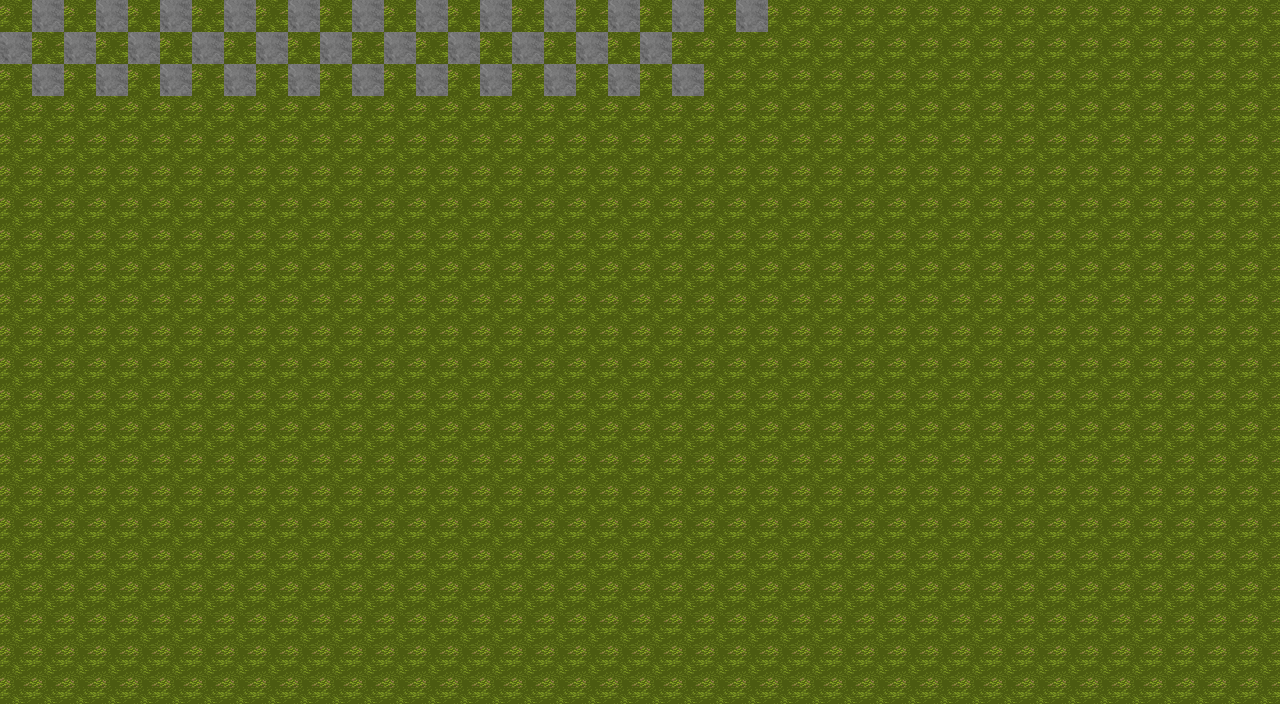
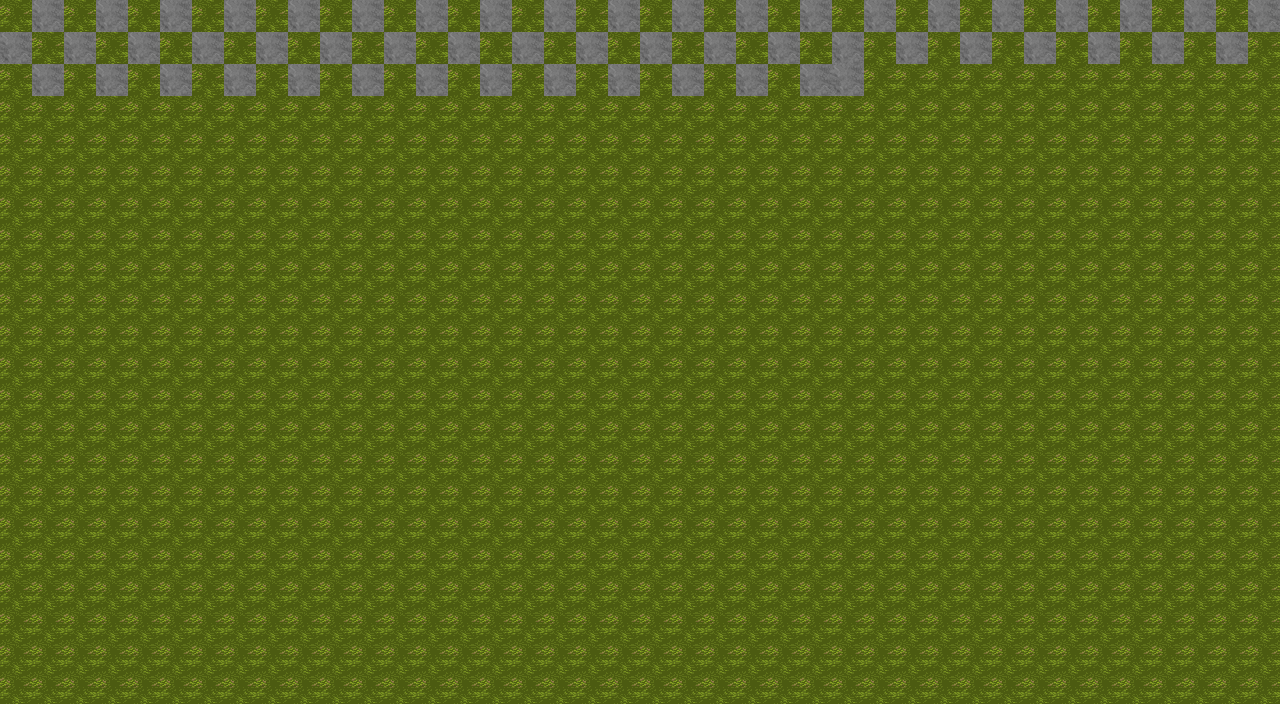
Colision detection mostly done

Changed region(s): [[0.5312, 0.0, 1.0, 0.1562]]

diff --git a/RobotSaga.py b/RobotSaga.py
@@ -240,38 +240,18 @@ def coordToSpot(coord):
 
 
 
-
-
-
-def coordToSpot(coord):
-    return coord.x + coord.y * widthTiles
-
+def coordToTile(coord):
+    return coord.x/bits + (coord.y * widthTiles)/bits
 
 
 
 
-
-def updateBackground(tiles):
-    for spot in range(0, len(tiles)):
-        if   tiles[spot] == "g": placeTex(grass, spot)
-        elif tiles[spot] == "s": placeTex(stone, spot)
-        #not in files yet
-        #elif tiles[spot] == "m": placeTex(monster, spot)
-        #elif tiles[spot] == "p": placeTex(player, spot)
-        #elif tiles[spot] == "w": placeTex(wall, spot)
-    writePictureTo(background, path + "newBack.png")
-
-
-
-
-
-
-def placeTex(tex, spot):
+def placeTex(tex, spot, back):
     startx = (spot * bits) % backWidth;
     starty = ((spot * bits) / backWidth) * bits;
     for x in range(0, bits):
         for y in range(0, bits):
-            setColor(getPixel(background, startx + x, starty + y), getColor(getPixel(tex, x, y)))
+            setColor(getPixel(baseMap, startx + x, starty + y), getColor(getPixel(tex, x, y)))
 
 
 
@@ -453,8 +433,64 @@ class Coords():
     self.y = y
 
 
+class Tile():
+  def __init__(self, tile, isTraversable, desc):
+    self.desc = desc
+    self.tileImg = tile
+    self.isTraversable = isTraversable
+    self.beings = {} #array of beings in that tile
+
+  def getImg(self):
+    return self.tileImg
+
+  def getTraversable(self):
+    return self.isTraversable
+
+  def addBeing(self, being):
+    self.beings.append(being)
+
+  def getDesc(self):
+    return self.desc
 
 
+class Map():
+    def __init__(self, tileMap):
+        self.tileMap = {} #change to make map
+        #beings will probably be a dictionary with coords as the key and value is the being at the spot
+        self.beings = {} #master holder for all of the beings
+        self.Map = makeEmptyPicture(backWidth, backHeight) #704 is chosen because its divisible by 32
+        self.updateBackground(tileMap, self.Map)
+        #for key, value in self.tileMap.iteritems():
+            #printNow(key)
+
+
+    def placeTex(self, tex, spot):
+        startx = (spot * bits) % backWidth
+        starty = ((spot * bits) / backWidth) * bits
+        #printNow(spot)
+        self.tileMap.update({spot: tex})
+        #placeTex(tex.getImg(), spot, self.Map)
+        for x in range(0, bits):
+            for y in range(0, bits):
+                setColor(getPixel(self.Map, startx + x, starty + y), getColor(getPixel(tex.getImg(), x, y)))
+
+
+    def updateBackground(self, tiles, back):
+        for spot in range(0, len(tiles)):
+            if   tiles[spot] == "g": self.placeTex(grass, spot)
+            elif tiles[spot] == "s": self.placeTex(stone, spot)
+            #not in files yet
+            #elif tiles[spot] == "m": placeTex(monster, spot)
+            #elif tiles[spot] == "p": placeTex(player, spot)
+            #elif tiles[spot] == "w": placeTex(wall, spot)
+        writePictureTo(self.Map, path + "newBack.png")
+
+    def isTraversable(self, spot):
+        printNow(spot)
+        if spot < 0 or spot > len(self.tileMap) - 1: return false
+        printNow(self.tileMap[spot].getTraversable())
+        printNow(self.tileMap[spot].getDesc())
+        return self.tileMap[spot].getTraversable()
 
 
 
@@ -1054,8 +1090,9 @@ class Being():
 
  
     def moveUp(self):
-        if self.coords.y >= 0:
-            self.faceUp()
+        self.faceUp()
+        targetCoord = coordToTile(Coords(self.coords.x, self.coords.y-1))
+        if self.coords.y >= 0 and baseMap.isTraversable(targetCoord):
             self.coords.y -= bits/2
             self.sprite.removeSprite()
             self.sprite = BeingSprite(self.spritePaths[0], self.coords.x, self.coords.y)
@@ -1486,13 +1523,14 @@ textureMap = makePicture(path + "Tiles/hyptosis_tile-art-batch-1.png")
 texWidth = getWidth(textureMap)
 texHeight = getHeight(textureMap)
 #initailize textures
-stone = getTexture(textCoordToSpot(3,24))
-grass = getTexture(textCoordToSpot(10,19))
+stone = Tile(getTexture(textCoordToSpot(3,24)), False, "stone")
+grass = Tile(getTexture(textCoordToSpot(10,19)), True, "grass")
+
 
 #create emply grass field will clean up later
-home  = "gsgsgsgsgsgsgsgsgsgsgsgsgggggggggggggggg"
-home += "sgsgsgsgsgsgsgsgsgsgsggggggggggggggggggg"
-home += "gsgsgsgsgsgsgsgsgsgsgsgggggggggggggggggg"
+home  = "gsgsgsgsgsgsgsgsgsgsgsgsgsgsgsgsgsgsgsgs"
+home += "sgsgsgsgsgsgsgsgsgsgsgsgsgsgsgsgsgsgsgsg"
+home += "gsgsgsgsgsgsgsgsgsgsgsgsgssggggggggggggg"
 home += "gggggggggggggggggggggggggggggggggggggggg"
 home += "gggggggggggggggggggggggggggggggggggggggg"
 home += "gggggggggggggggggggggggggggggggggggggggg"
@@ -1515,8 +1553,9 @@ home += "gggggggggggggggggggggggggggggggggggggggg"
 #initailize background image
 backWidth = bits * widthTiles
 backHeight = bits * heightTiles
-background = makeEmptyPicture(backWidth, backHeight) #704 is chosen because its divisible by 32
-updateBackground(home)
+baseMap = Map(home)
+#background = makeEmptyPicture(backWidth, backHeight) #704 is chosen because its divisible by 32
+#updateBackground(home)
 
 
 display = gui.Display("Robot Saga", backWidth, backHeight)
